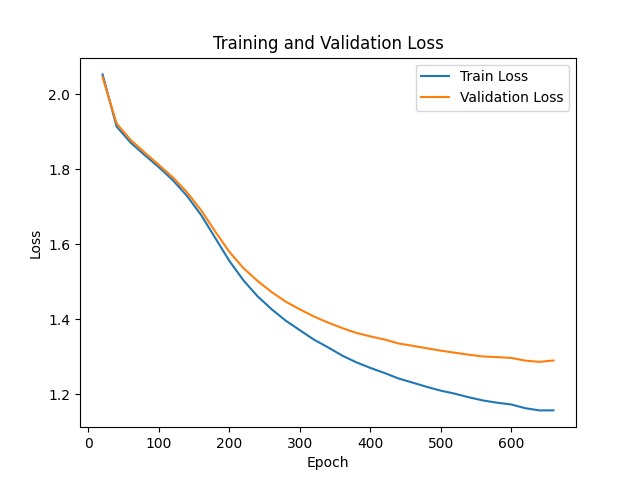
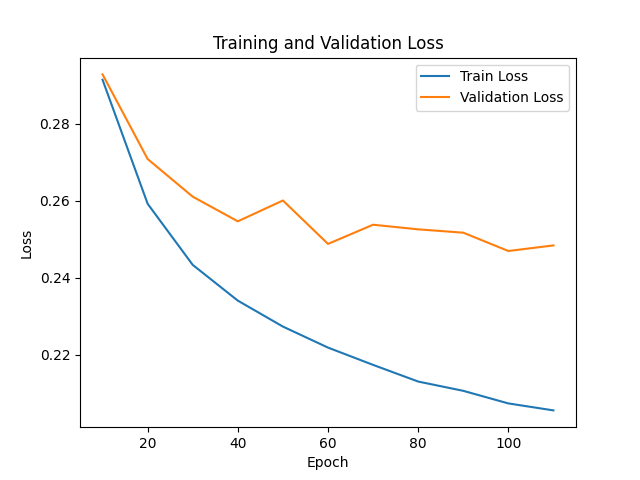
implemented ordinal regression and smaller batch size

diff --git a/data/build_model.py b/data/build_model.py
@@ -1,10 +1,12 @@
 import pandas as pd
+import numpy as np
 from sklearn.model_selection import train_test_split
 from sklearn.preprocessing import StandardScaler
 from sklearn.metrics import mean_squared_error, mean_absolute_error, r2_score
 import torch
 import torch.nn as nn
 import torch.nn.functional as F
+from torch.utils.data import Dataset, DataLoader
 import matplotlib.pyplot as plt
 from tqdm import tqdm
 
@@ -17,8 +19,7 @@ feature_cols = [
 ]
 
 X = df[feature_cols].values
-# convert lineup position to 0-8 rather then 1-9 so easier to handle
-y = df['lineup_pos'].astype(int).values - 1
+y = df['lineup_pos'].astype(int).values
 
 # train / validation split
 X_train, X_val, y_train, y_val = train_test_split(
@@ -31,12 +32,27 @@ X_train = scaler.fit_transform(X_train)
 X_val = scaler.transform(X_val)
 X = scaler.transform(X)
 
-X_train_tensor = torch.tensor(X_train, dtype=torch.float32)
-X_val_tensor = torch.tensor(X_val, dtype=torch.float32)
-X_tensor = torch.tensor(X, dtype=torch.float32)
+class LineupDataset(Dataset):
+    def __init__(self, X, y):
+        self.X = torch.tensor(X, dtype=torch.float32)
+        self.y = torch.tensor(y, dtype=torch.long)
 
-y_train_tensor = torch.tensor(y_train, dtype=torch.long)
-y_val_tensor = torch.tensor(y_val, dtype=torch.long)
+    def __len__(self):
+        return len(self.y)
+
+    def __getitem__(self, idx):
+        x = self.X[idx]
+        y = self.y[idx]
+
+        ordinal = torch.zeros(8)
+        ordinal[:y-1] = 1
+
+        return x, ordinal
+
+train_loader = DataLoader(LineupDataset(X_train, y_train), batch_size=32, shuffle=True)
+val_loader = DataLoader(LineupDataset(X_val, y_val), batch_size=32)
+
+X_tensor = torch.tensor(X, dtype=torch.float32)
 
 class LineupModel(nn.Module):
     def __init__(self, input_dim):
@@ -44,53 +60,76 @@ class LineupModel(nn.Module):
         self.fc1 = nn.Linear(input_dim, 128)
         self.fc2 = nn.Linear(128, 64)
         self.fc3 = nn.Linear(64, 32)
-        self.out = nn.Linear(32, 9)
+
+        self.out = nn.Linear(32, 1)
+        self.thresholds = nn.Parameter(torch.linspace(-2, 2, 8))
     
     def forward(self, x):
         x = F.relu(self.fc1(x))
         x = F.relu(self.fc2(x))
         x = F.relu(self.fc3(x))
-        return self.out(x) # logits
+
+        base = self.out(x)
+        logits = base - self.thresholds
+        return logits
 
 model = LineupModel(X.shape[1])
 optimizer = torch.optim.Adam(model.parameters(), lr=0.001)
-criterion = nn.CrossEntropyLoss()
+criterion = nn.BCEWithLogitsLoss()
 
-num_epochs = 2000
+num_epochs = 250
 patience = 20
-min_delta = 1e-3 # require meaningful improvement
+min_delta = 1e-3
 best_val_loss = float('inf')
 counter = 0
 best_model_state = None
 
 epoch_losses = {}
+
 for epoch in tqdm(range(num_epochs), desc="Training Model"):
     # Training
-    logits = model(X_train_tensor)
-    loss = criterion(logits, y_train_tensor)
-    optimizer.zero_grad()
-    loss.backward()
-    optimizer.step()
-    
+    model.train()
+    train_loss = 0
+
+    for X_batch, y_batch in train_loader:
+        preds = model(X_batch)
+        loss = criterion(preds, y_batch)
+
+        optimizer.zero_grad()
+        loss.backward()
+        optimizer.step()
+
+        train_loss += loss.item()
+
+    train_loss /= len(train_loader)
+
     # Validation
+    model.eval()
+    val_loss = 0
+
     with torch.no_grad():
-        val_logits = model(X_val_tensor)
-        val_loss = criterion(val_logits, y_val_tensor).item()
-    
+        for X_batch, y_batch in val_loader:
+            preds = model(X_batch)
+            loss = criterion(preds, y_batch)
+            val_loss += loss.item()
+            
+    val_loss /= len(val_loader)
+
     # Early stopping check
     if val_loss < best_val_loss - min_delta:
         best_val_loss = val_loss
         counter = 0
-        best_model_state = model.state_dict().copy()
+        best_model_state = model.state_dict()
     else:
         counter += 1
+
     if counter >= patience:
-        print(f"Early stopping at epoch {epoch}")
+        print(f"\nEarly stopping at epoch {epoch}")
         break
-    
-    if epoch % 20 == 19:
+
+    if epoch % 10 == 9:
         epoch_losses[epoch+1] = {
-            'train_loss': loss.item(),
+            'train_loss': train_loss,
             'val_loss': val_loss
         }
 
@@ -98,6 +137,7 @@ for epoch in tqdm(range(num_epochs), desc="Training Model"):
 epochs = list(epoch_losses.keys())
 train_losses = [epoch_losses[ep]['train_loss'] for ep in epochs]
 val_losses = [epoch_losses[ep]['val_loss'] for ep in epochs]
+
 plt.plot(epochs, train_losses, label='Train Loss')
 plt.plot(epochs, val_losses, label='Validation Loss')
 plt.xlabel('Epoch')
@@ -111,26 +151,43 @@ print("Loss plot saved to loss_plot.png")
 if best_model_state is not None:
     model.load_state_dict(best_model_state)
 
-with torch.no_grad():
-    probs = F.softmax(model(X_tensor), dim=1).numpy()
-    
-prob_cols = [f'pos_{i+1}' for i in range(9)]
-probs_df = pd.DataFrame(probs, columns=prob_cols)
-    
-# Attach metadata
-metadata = df[['team', 'player_id', 'game_date']].reset_index(drop=True)
-final_df = pd.concat([metadata, probs_df], axis=1)
-    
-# Overwrite file every run
-final_df.to_parquet("data/model_probs.parquet", index=False)
-final_df[:50].to_csv("data/model_probs_preview.csv", index=False)
-print("Model probabilities saved to model_probs.parquet")
+def ordinal_to_class(logits):
+    probs = torch.sigmoid(logits)
+    return (probs > 0.5).sum(dim=1) + 1
 
-# Final Model Evaluation
 with torch.no_grad():
-    final_logits = model(X_val_tensor)
-    final_preds = torch.argmax(final_logits, dim=1).numpy()
+    logits = model(X_tensor)
+    preds = ordinal_to_class(logits).numpy()
+
+pred_df = pd.DataFrame(preds, columns=['predicted_lineup_pos'])
+
+# Attach metadata and true labels
+metadata = df[['team', 'player_id', 'game_date']].reset_index(drop=True)
+true_labels = df['lineup_pos'].astype(int).values
+final_df = pd.concat([metadata, pred_df, pd.DataFrame(true_labels, columns=['true_lineup_pos'])], axis=1)
+
+final_df.to_parquet("data/model_preds.parquet", index=False)
+final_df[:50].to_csv("data/model_preds_preview.csv", index=False)
+
+print("Model predictions saved to model_preds.parquet")
+
+all_preds = []
+all_true = []
+with torch.no_grad():
+    for X_batch, y_batch in val_loader:
+        logits = model(X_batch)
+        preds = ordinal_to_class(logits)
+
+        all_preds.extend(preds.numpy())
+        all_true.extend((y_batch.sum(dim=1) + 1).numpy())
+
+all_preds = np.array(all_preds)
+all_true = np.array(all_true)
+
 print("Final Model Evaluation:")
-print(f"MSE: {mean_squared_error(y_val, final_preds):.4f}")
-print(f"MAE: {mean_absolute_error(y_val, final_preds):.4f}")
-print(f"R^2: {r2_score(y_val, final_preds):.4f}")
+print(f"MSE: {mean_squared_error(all_true, all_preds):.4f}")
+print(f"MAE: {mean_absolute_error(all_true, all_preds):.4f}")
+print(f"R^2: {r2_score(all_true, all_preds):.4f}")
+
+within_1 = np.mean(np.abs(all_preds - all_true) <= 1)
+print(f"Within ±1 Accuracy: {within_1:.4f}")
